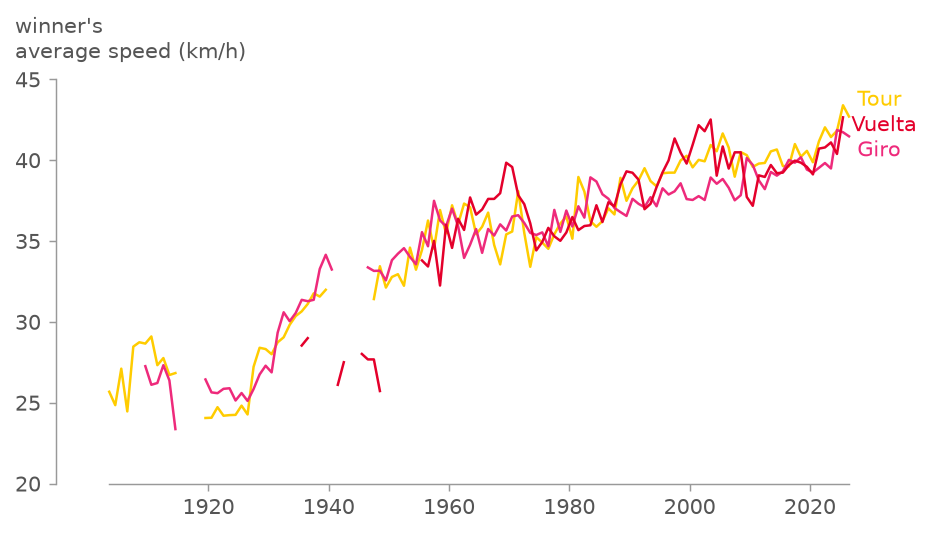
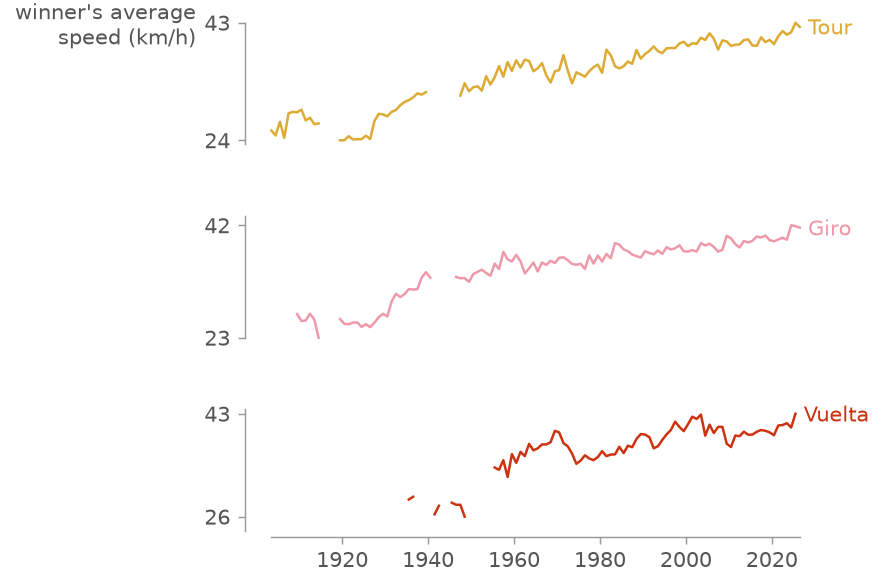
docs(examples): stack the grand tours, one race per panel
The three braided lines shared one band with a pale yellow and two
reds a deutan reader cannot tell apart. Each race now gets its own
panel on a shared scale, in gold, pink and vermilion from Tol's
schemes, named at the line's end, with SummaryLocator marking its
slowest and fastest winner on the y spine.

Claude-Session: https://claude.ai/code/session_01Be8fXiwb9W9Taswjg6HSs7

diff --git a/examples/gallery.py b/examples/gallery.py
@@ -69,26 +69,36 @@ def anscombe() -> None:
 
 
 def grand_tours() -> None:
-    """Render a century of grand tour winners' speeds with direct labels."""
+    """Render a century of grand tour winners' speeds, one race per panel."""
     table = load("grand_tour_speeds.csv")
     first, last = int(table["year"][0]), int(table["year"][-1])
     years = np.arange(first, last + 1)
     dates = [dt.date(year, 7, 1) for year in years]
-    fig, ax = plt.subplots(figsize=(7, 3.5))
+    fig, axes = plt.subplots(3, 1, figsize=(5, 4.5), sharex=True)
+    fig.subplots_adjust(hspace=0.45)
     jerseys = {
-        "tour": ("Tour", "#FFCC00"),  # maillot jaune
-        "giro": ("Giro", "#EE2A7B"),  # maglia rosa
-        "vuelta": ("Vuelta", "#E4002B"),  # maillot rojo
+        "tour": ("Tour", "tol:high_contrast.yellow"),  # maillot jaune
+        "giro": ("Giro", "tol:medium_contrast.light_red"),  # maglia rosa
+        "vuelta": ("Vuelta", "tol:red"),  # maillot rojo
     }
-    for column, (label, color) in jerseys.items():
+    speeds_of = {}
+    for ax, (column, (label, color)) in zip(axes, jerseys.items(), strict=True):
         speeds = np.full(years.size, np.nan)
         speeds[table["year"].astype(int) - first] = table[column]
+        speeds_of[ax] = speeds
         ax.plot(dates, speeds, color=color, linewidth=1.2, label=label)
     # Plot before distill: the axis becomes a date axis when date data
     # arrives, and distill detects date-ness at call time.
-    vzs.distill(ax, frame=("data", "loose"))
-    vzs.line_labels(ax)
-    vzs.ylabel(ax, "winner's\naverage speed (km/h)", place="above")
+    vzs.small_multiples(
+        axes,
+        frame="data",
+        spacing=(5, 4),
+        ylabel="winner's average\nspeed (km/h)",
+    )
+    for ax, speeds in speeds_of.items():
+        ax.yaxis.set_major_locator(vzs.SummaryLocator(speeds, [np.nanmin, np.nanmax]))
+        ax.yaxis.set_major_formatter("{x:.0f}")
+        vzs.line_labels(ax)
     fig.savefig(OUTPUT / "grand_tours.png", dpi=150, bbox_inches="tight")
     plt.close(fig)
 

diff --git a/README.md b/README.md
@@ -131,9 +131,16 @@ ax.xaxis.set_major_formatter("{x:.0f}")
 
 ![Four scatter panels of Anscombe's quartet, each with spines trimmed to its own data and ticks at its own quartiles, differing where the shared statistics cannot](https://raw.githubusercontent.com/jpweytjens/vanzelfsprekend/main/docs/anscombe.png)
 
-A century of grand tour winners' average speeds, each race in its jersey's colour, labelled at the lines' ends. The Tour and the Vuelta arrive too close together for unaided text, so the labels shift just apart; the time spine ends exactly at the first and last editions, and the world wars stay visible as holes in the record:
+A century of grand tour winners' average speeds, one race per panel on a shared scale, each line in a nod to its jersey and named at its end. The y spines share one scale across the three, and `SummaryLocator` ticks each at that race's slowest and fastest winning speed, so the Tour's 24 to 43 km/h reads against the Giro's 23 to 42 without a round number in between. The time spine ends exactly at the first and last editions, the two world wars stay visible as holes in every record, and the Vuelta's broken start in the 1930s is its own story:
 
-![Line chart of winners' average speeds at the Tour, Giro and Vuelta since 1903, each line labelled at its right end, with gaps during the world wars](https://raw.githubusercontent.com/jpweytjens/vanzelfsprekend/main/docs/grand_tours.png)
+```python
+vzs.small_multiples(
+    axes, frame="data", spacing=(5, 4), ylabel="winner's average\nspeed (km/h)"
+)
+ax.yaxis.set_major_locator(vzs.SummaryLocator(speeds, [np.nanmin, np.nanmax]))
+```
+
+![Three stacked panels of winners' average speeds at the Tour, Giro and Vuelta since 1903, gold, pink and red, each named at its line's end, each y spine ticked at that race's slowest and fastest winner, with gaps during the world wars](https://raw.githubusercontent.com/jpweytjens/vanzelfsprekend/main/docs/grand_tours.png)
 
 A wide-form line chart that seaborn drew, distilled by the same one call: the treatment reads an axes, not the library that filled it, so it reaches a seaborn plot as readily as a bare matplotlib one. The four series are a constructed random walk under seaborn's `whitegrid` theme; `distill` trims the box to two spines, drops the grid, and keeps the tick marks the theme had switched off, while `line_labels` stands in for the legend. seaborn keeps each legend entry's text on a proxy artist away from the drawn line, so the labels come from `labels=` rather than the lines' own names:
 
